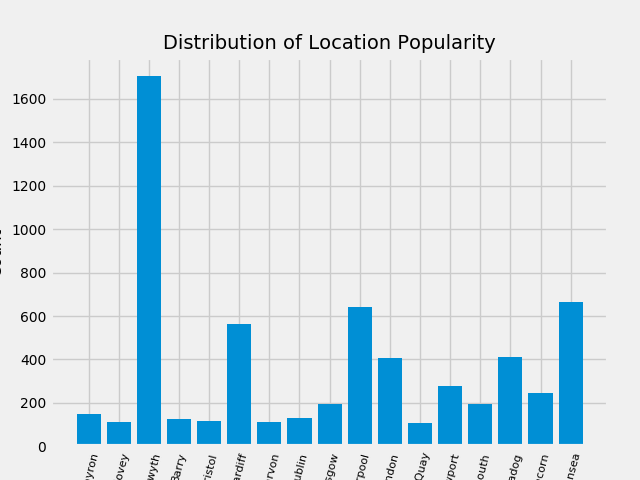
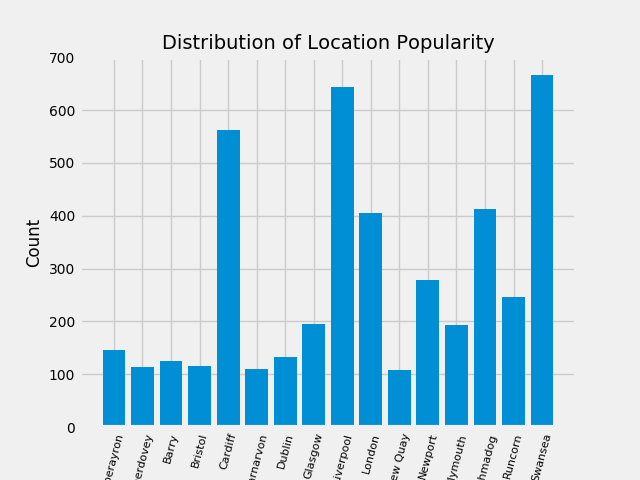
updated file formats/name

diff --git a/csm6720/assignment_plots.py b/csm6720/assignment_plots.py
@@ -10,16 +10,7 @@ from pymongo import MongoClient
 import matplotlib.pyplot as plt
 from collections import Counter
 
-if __name__ == "__main__":
-    user = 'sap21'
-    dbpath = 'nosql.dcs.aber.ac.uk/sap21'
-    password = input('Enter Password...')
-    connection_string = 'mongodb://'+user+':'+password+'@'+dbpath
-    client = MongoClient(connection_string)
-    db = client.sap21
-    
-    ##################################################    
-    
+def plot_ranks():
     cursor = db.sap21.aggregate([
         {"$match": {"mariners.this_ship_capacity": {"$nin": ["Blk", "blk", "blk ", "Blk "]}}},
         {"$unwind":"$mariners"},
@@ -30,11 +21,9 @@ if __name__ == "__main__":
             "count": {"$sum": 1}
         }}
     ])
-
     ranks = []
     deltab = "[]()1234567890,$-:"
     trantab = str.maketrans("", "", deltab) 
-    
     for mariner_jobs in cursor:
         mariner_jobs = str(mariner_jobs['_id'].get('rank', '')).lower()
         amper_jobs = mariner_jobs.split("&")
@@ -52,17 +41,13 @@ if __name__ == "__main__":
             jobs = plus_jobs
         else:
             jobs = [mariner_jobs]            
-            
         for job in jobs:
             ranks.append(job.strip().replace("2nd", "second").replace("1st", "first").replace("3rd", "third").lower(
         ).translate(trantab).strip())
-    
     counting_ranks = Counter(ranks)
     plots = counting_ranks.most_common(30)
-    
     del plots[8] # blank        
     final_ranks = dict(plots)  
-    
     final_ranks['lamptrimmer'] += final_ranks['lamps'] 
     final_ranks['lamptrimmer'] += final_ranks['trimmer']
     del final_ranks['lamps']   
@@ -71,16 +56,15 @@ if __name__ == "__main__":
     del final_ranks['able seamen']  
     final_ranks['engineer'] += final_ranks['th engineer']
     del final_ranks['th engineer']
-    del final_ranks['lps']
-        
+    #del final_ranks['lps']
     order = ['boy','purser','sailor','seaman','ordinary seaman','able seaman',
              'lamptrimmer','carpenter','boatswain','bosun','mess room steward',
              'cook','steward','cook steward','fireman','donkeyman','engineer', 'third engineer',
              'second engineer','first engineer','mate','second mate','first mate','master'] # sometimes purser should be changed to apprentice
     numbers = []
     for job in order:
-        numbers.append(final_ranks[job])        
-     
+        numbers.append(final_ranks[job])    
+    #print(final_ranks)
     plt.figure(1)
     fig = plt.figure(1)
     plt.style.use('fivethirtyeight')
@@ -93,4 +77,65 @@ if __name__ == "__main__":
     fig.savefig('ranks.png')
     plt.tight_layout()
     plt.show()  
+
+def plot_locations():
+    ports = []
+    results = db.sap21.aggregate([
+        {"$match": {"mariners.last_ship_port": {"$nin": ["Blk", "blk", "blk ", "Blk "]}}},
+        {"$match": {"mariners.this_ship_joining_port": {"$nin": ["Blk", "blk", "blk ", "Blk "]}}},
+        {"$match": {"mariners.this_ship_leaving_port": {"$nin": ["Blk", "blk", "blk ", "Blk "]}}},
+        {"$unwind":"$mariners"},
+        {"$group": {
+            "_id": {
+                "lastport": "$mariners.last_ship_port",
+                "joiningport": "$mariners.this_ship_joining_port",
+                "leaveport": "$mariners.this_ship_leaving_port"
+            },
+            "count": {"$sum": 1}
+        }}
+    ])
+    deltab = "[]()1234567890,$-:"
+    trantab = str.maketrans("", "", deltab)
+    for r in results:
+        ports.append(r['_id'].get('lastport'))
+        ports.append(r['_id'].get('joiningport'))
+        ports.append(r['_id'].get('leaveport'))    
+    for i, p in enumerate(ports):
+        try:
+            ports[i] = ports[i].translate(trantab)
+        except AttributeError:
+            continue
+    counting_ports = Counter(ports)
+    port_count = counting_ports.most_common(20)
+    port_count = dict(port_count) 
+    port_count['Aberystwyth'] += port_count['Aberystwith']    
+    del port_count['Aberystwith']  
+    del port_count['Aberystwyth'] # remove this if want to compare to Aberystwyth 
+    del port_count['Continued'] 
+    port_count['Porthmadog'] += port_count['Portmadoc']
+    del port_count['Portmadoc']
+    plt.figure(2)
+    fig = plt.figure(2)
+    plt.style.use('fivethirtyeight')
+    plt.bar(port_count.keys(), port_count.values())
+    plt.xlabel('Location', fontsize=12)  
+    plt.xticks(fontsize=8)
+    plt.xticks(rotation=75)
+    plt.ylabel('Count', fontsize=12)
+    plt.yticks(fontsize=10)
+    plt.title('Distribution of Location Popularity', fontsize=14)
+    fig.savefig('location.png')
+    plt.tight_layout()
+    plt.show()  
+
+
+if __name__ == "__main__":
+    user = 'sap21'
+    dbpath = 'nosql.dcs.aber.ac.uk/sap21'
+    password = input('Enter Password...')
+    connection_string = 'mongodb://'+user+':'+password+'@'+dbpath
+    client = MongoClient(connection_string)
+    db = client.sap21
     
+    #plot_ranks() # task 1 - plotting ranks
+    plot_locations() # task 2 - plotting popular locations

diff --git a/csm6720/misc.py b/csm6720/misc.py
@@ -1,7 +1,6 @@
 # -*- coding: utf-8 -*-
 """
 Created on Thu Mar  1 15:31:25 2018
-
 @author: sap21
 
 >> Please note: this work isn't for my CS assignment - content is somewhat related though.
@@ -9,6 +8,7 @@ Created on Thu Mar  1 15:31:25 2018
 
 from pprint import pprint
 from pymongo import MongoClient
+import matplotlib.pyplot as plt
 
 def list_ships(): # set up a function to list ship names
     records = db.sap21.aggregate([ 
@@ -28,8 +28,22 @@ def get_ship(ship_name): # function to get information on a ship
     for r in records:
         print(r["vessel name"], r["official number"])                
 
-
-
+def plot_ship_records_count():
+    plt.figure(1)
+    fig = plt.figure(1)
+    plt.style.use('fivethirtyeight')
+    
+    cursor = db.sap21.aggregate([{'$group':
+        {'_id':'$vessel name', 'count':{'$sum':1}}}])
+    values = [x['count'] for x in cursor]
+    #print(values)
+    plt.hist(values)
+    plt.xlabel('Number of records for each ship', fontsize=12)
+    plt.ylabel('Count of ships with N records', fontsize=12)
+    plt.title('Distribution of number of records to each ship', fontsize=14)
+    fig.savefig("test.png")
+    plt.tight_layout()
+    plt.show
                  
                  
 if __name__ == "__main__":
@@ -40,7 +54,29 @@ if __name__ == "__main__":
     client = MongoClient(connection_string)
     db = client.sap21
     
-    list_ships() # does not work properly
+    #list_ships() # does not work properly?
     #get_ship("Margaret Ann")  
     
+    plot_ship_records_count()
+
+    ##############################################
+    # Other additional stuff I did for practice
+
+    ### Print out first record
+    cursor = db.sap21.find({})
+    for document in cursor[:1]:
+        pprint(document)  
+        
+    ### Print out vessel information
+    cursor = db.sap21.distinct("vessel name")
+    vessels = [x for x in cursor]
+    cursor = db.sap21.distinct("port of registry")
+    port = [x for x in cursor]
+    cursor = db.sap21.distinct("official number")
+    on = [x for x in cursor]
+    print(vessels, port, on)
     
+    # Printing out mariner's names for those older than 60    
+    cursor = db.sap21.distinct("mariners.name", {'mariners.age': {'$gte':60}}) 
+    agegreaterthan = [x for x in cursor]
+    print(agegreaterthan)
